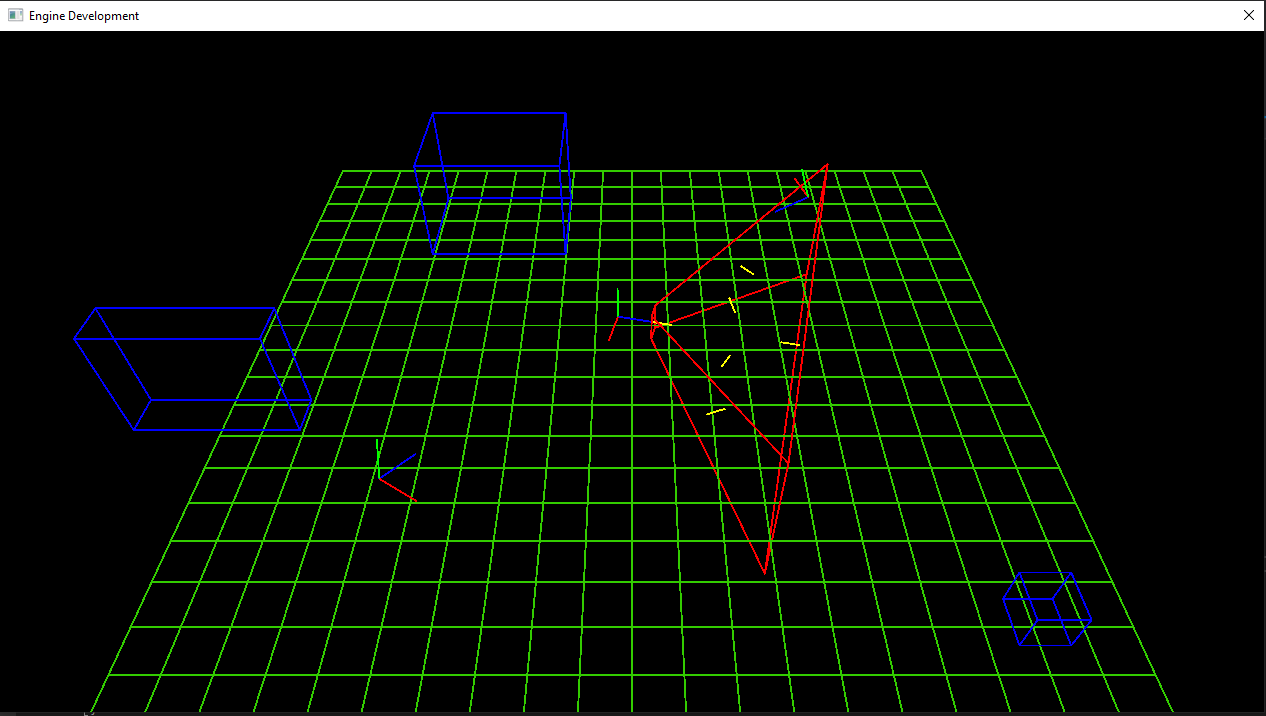
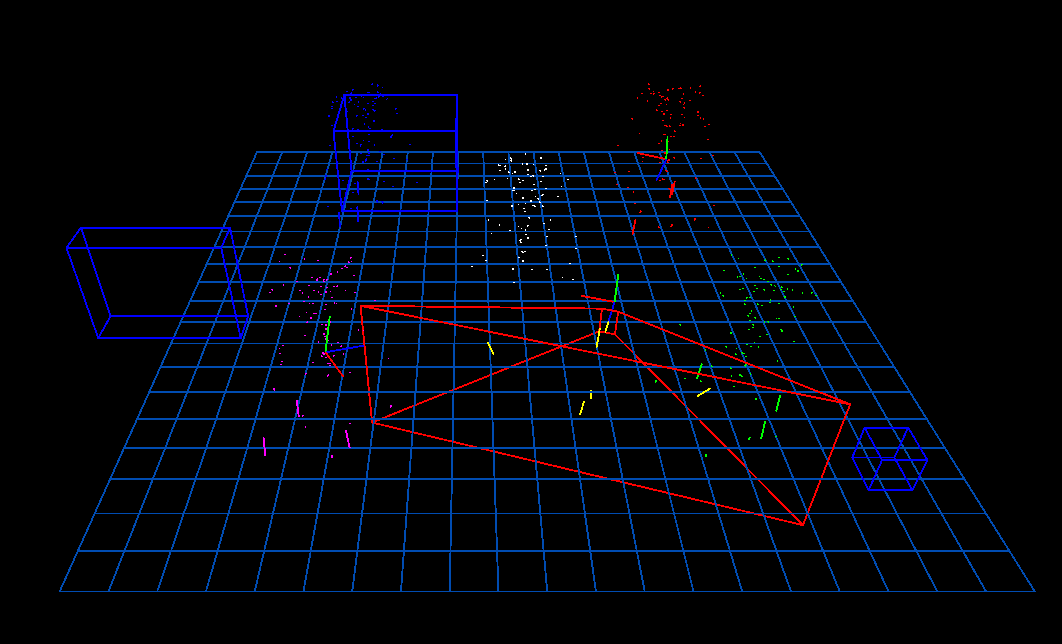
Updated Engine page to have a repo and pictures. Fixed ChatRoom home page picture.

Changed region(s): [[0.0621, 0.1242, 0.9633, 0.9627], [0.0, 0.0, 1.0, 1.0]]

diff --git a/index.html b/index.html
@@ -46,7 +46,7 @@
 				<!-- One -->
 					<section id="one" class="wrapper style2 spotlights">
 						<section>
-							<a href="#" class="image"><img src="images/ChatRoom.PNG" alt="" data-position="center center" /></a>
+							<img src="images/ChatRoom.PNG" alt="" data-position="center center" />
 							<div class="content">
 								<div class="inner">
 									<h2>Winsock Chat Room</h2>
@@ -58,7 +58,7 @@
 							</div>
 						</section>
 						<section>
-							<a href="#" class="image"><img src="images/Frustrum.PNG" alt="" data-position="top center" /></a>
+							<img src="images/Frustrum.PNG" alt="" data-position="top center" />
 							<div class="content">
 								<div class="inner">
 									<h2>Game Engine Development</h2>
@@ -70,7 +70,7 @@
 							</div>
 						</section>
 						<section>
-							<a href="#" class="image"><img src="images/Vulkan.PNG" alt="" data-position="50% 70%" /></a>
+							<img src="images/Vulkan.PNG" alt="" data-position="50% 70%" />
 							<div class="content">
 								<div class="inner">
 									<h2>Vulkan Renderer</h2>
@@ -82,7 +82,7 @@
 							</div>
 						</section>
 						<section>
-							<a href="#" class="image"><img src="images/Forecast.PNG" alt="" data-position="0% 0%" /></a>
+							<img src="images/Forecast.PNG" alt="" data-position="0% 0%" />
 							<div class="content">
 								<div class="inner">
 									<h2>Forecast Armageddon</h2>
@@ -94,7 +94,7 @@
 							</div>
 						</section>
 						<section>
-							<a href="#" class="image"><img src="images/Conway.PNG" alt="" data-position="0% 0%" /></a>
+							<img src="images/Conway.PNG" alt="" data-position="0% 0%" />
 							<div class="content">
 								<div class="inner">
 									<h2>Conway's Game of Life</h2>
@@ -106,7 +106,7 @@
 							</div>
 						</section>
 						<section>
-							<a href="#" class="image"><img src="images/Blackjack.PNG" alt="" data-position="0% 0%" /></a>
+							<img src="images/Blackjack.PNG" alt="" data-position="0% 0%" />
 							<div class="content">
 								<div class="inner">
 									<h2>Black Jack</h2>

diff --git a/engine.html b/engine.html
@@ -35,9 +35,11 @@
 						<div class="inner">
 							<h1 class="major">Game Engine</h1>
 
-							<!--youtube embed-->
+							<img src="images/Engine_Frustrum.PNG" alt="" data-position="top center" />
+							<img src="images/Engine_Full.PNG" alt="" data-position="top center" />
+							<img src="images/Engine_Particles.PNG" alt="" data-position="top center" />
 							<br>
-							<h3><a href="https://github.com/EthanStanks" class="icon brands fa-github" target="_blank"><span class="label">GitHub</span> GitHub Repository</a></h3>
+							<h3><a href="https://github.com/EthanStanks/END-Class" class="icon brands fa-github" target="_blank"><span class="label">GitHub</span> GitHub Repository</a></h3>
 							<br>
 							<h2>About</h2>
                             <p>As part of my project, I developed a basic C++ game engine that incorporated a provided DirectX renderer. My responsibilities included creating a simple yet efficient particle system, which utilized a free and sorted pool to manage its memory. Furthermore, I implemented camera movement, drew AABBs (axis-aligned bounding boxes), calculated and drew frustum planes and points, and managed keyboard and mouse input using Windows input messaging.</p>
